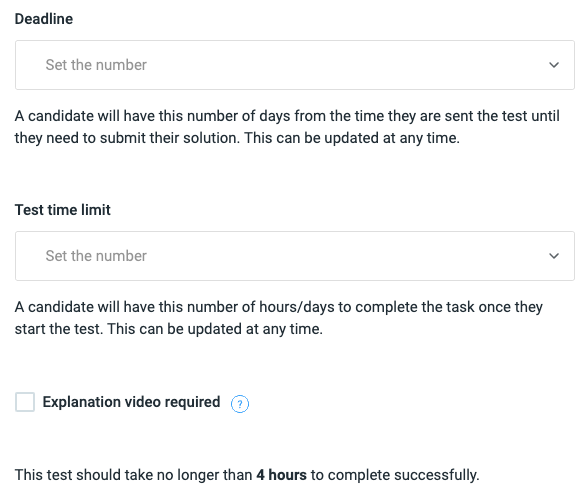
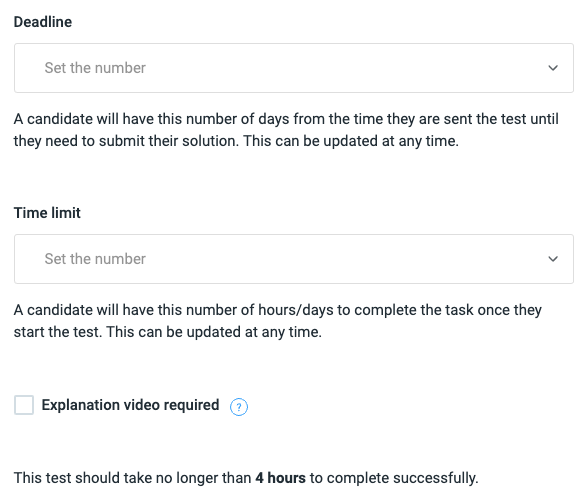
Added extending time doc

diff --git a/docs/extendingTime.md b/docs/extendingTime.md
@@ -1,0 +1,32 @@
+# Extending Time
+
+If you would like to extend the time a candidate has to complete their test, you can click the blue + icon to the right
+of the time left value for that candidate.
+
+<figure>
+  <figcaption style="font-style: italic;"></figcaption>
+  </br>
+  <img style="max-width: 80%;" src="inProgress.png" alt="In Progress Candidate"/>
+</figure>
+
+<br>
+
+You will then see the following pop-up:
+
+<figure>
+  <figcaption style="font-style: italic;"></figcaption>
+  </br>
+  <img style="max-width: 40%;" src="extendTime.png" alt="Extend Time"/>
+</figure>
+
+<br>
+
+If the candidate has not started the test, the number of hours/days you choose here will be added to the 
+`existing deadline` the candidate has to submit their solution from when they were sent the test. The `existing deadline`
+here refers to the `Deadline` value you had set for this test when you sent the test to this candidate.
+
+If the candidate has started the test, the number of hours/days you choose here will be added to the
+`existing time limit` the candidate has to submit their solution from when they started the test. The `existing time limit`
+here refers to the `Time limit` value you had set for this test when you sent the test to this candidate.
+
+Once you choose the number of hours/days, click the blue `Confirm` button, and that's it!

diff --git a/docs/creating-lib-test.md b/docs/creating-lib-test.md
@@ -23,9 +23,9 @@ solution. Please read <a href="https://code-screen.github.io/Candidate-Video-Doc
 
 * `Deadline` - The maximum number of days the candidate has to complete the test once it is sent to them.
 
-* `Test time limit` - The maximum number of hours/days the candidate has to complete the test once they start the test.
+* `Time limit` - The maximum number of hours/days the candidate has to complete the test once they start the test.
 
-You will also notice that we display a recommended maximum `Test time limit`. Please **note** that all our library tests are designed
+You will also notice that we display a recommended maximum `Time limit`. Please **note** that all our library tests are designed
 to be successfully solved within 60-90 minutes. We do, however, suggest a time greater than this to avoid making candidates 
 feel unnecessarily stressed, which allows them to perform better on the test.
 

diff --git a/docs/sidebar.md b/docs/sidebar.md
@@ -46,6 +46,7 @@
 
   - [Sending Tests](sendingTests.md)
   - [Re-sending Tests](resendingTests.md)
+  - [Extending Time](extendingTime.md)
 
 - Viewing Candidates
 
